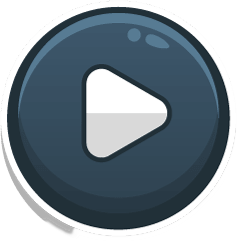
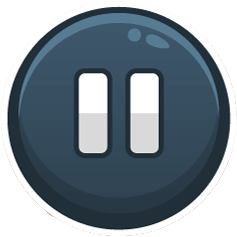
bottone pausa e play e correzione dei vari nomi

diff --git a/prova1/codeJS/home.js b/prova1/codeJS/home.js
@@ -7,6 +7,10 @@ let sfondoPricipale
 
 //immagini bottoni
 let bottoneImpostazini_image
+let bottoneRepImg
+let bottoneHomeImg
+let bottoneinfoImg
+let 
 
 //bottoni (oggetti)
 let bottonSettings
@@ -45,6 +49,9 @@ function preload(){
     bottoneImpostazini_image = loadImage("images/immagineBottoneSettings.png");
     bottoneRepImg = loadImage("images/immagineButtonReplay.png");
     bottoneHomeImg = loadImage("images/immagineBottoneHome.png");
+    bottoneinfoImg = loadImage()
+
+
 
 
 }
